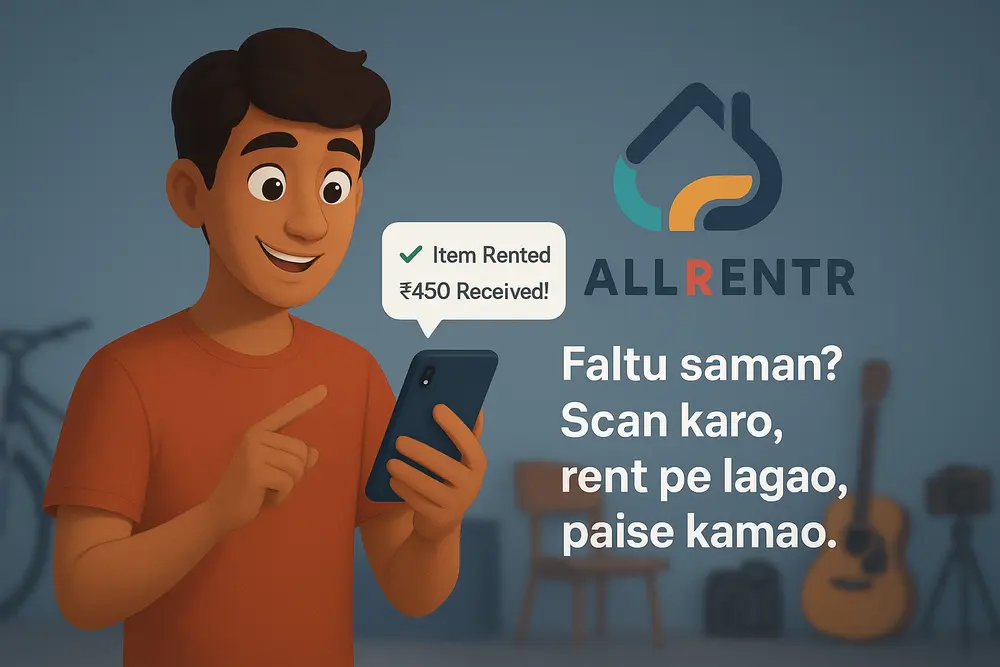
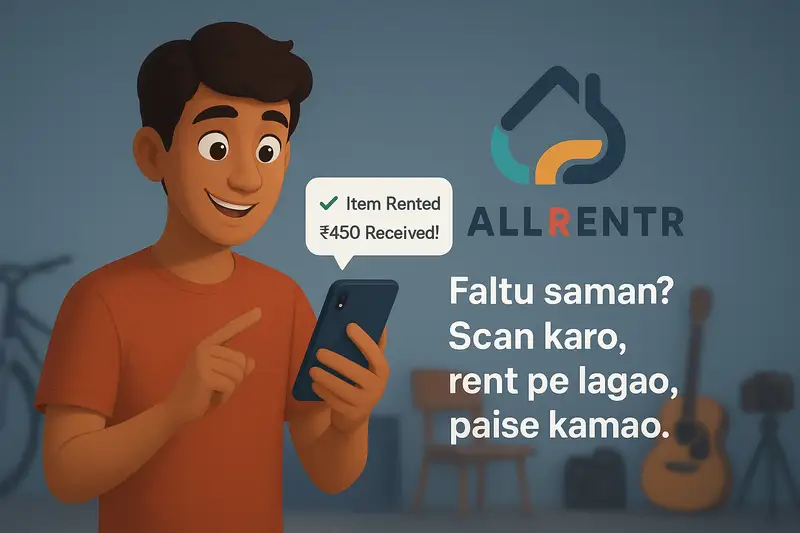
Optimize performance: Defer CSS/Ads, lazy load critical data, and improve image compression

diff --git a/src/components/TopProfilesSection.tsx b/src/components/TopProfilesSection.tsx
@@ -5,10 +5,12 @@ import { ScrollArea, ScrollBar } from "@/components/ui/scroll-area";
 import { Flame, Trophy, Crown } from "lucide-react";
 
 const TopProfilesSection = () => {
-  const { data: profiles, isLoading } = useTopProfiles();
-  const { data: visibility } = useSectionVisibility("top_profiles");
   const sectionRef = useRef<HTMLDivElement>(null);
   const [visible, setVisible] = useState(false);
+
+  // Defer rendering until visible to prevent early fetching
+  const { data: profiles, isLoading } = useTopProfiles({ enabled: visible });
+  const { data: visibility } = useSectionVisibility("top_profiles", { enabled: visible });
 
   // Fade-in when section enters viewport
   useEffect(() => {
@@ -39,9 +41,8 @@ const TopProfilesSection = () => {
   return (
     <section
       ref={sectionRef}
-      className={`relative overflow-hidden min-h-[120vh] py-32 transition-all duration-1000 ease-out ${
-        visible ? "opacity-100 translate-y-0" : "opacity-0 translate-y-20"
-      } bg-gradient-to-b from-[#0B090A] via-[#161A1D] to-[#0B090A]`}
+      className={`relative overflow-hidden min-h-[120vh] py-32 transition-all duration-1000 ease-out ${visible ? "opacity-100 translate-y-0" : "opacity-0 translate-y-20"
+        } bg-gradient-to-b from-[#0B090A] via-[#161A1D] to-[#0B090A]`}
     >
       {/* ---- Animated Background Glow ---- */}
       <div className="absolute inset-0 overflow-hidden">
@@ -70,9 +71,8 @@ const TopProfilesSection = () => {
       <div className="container mx-auto px-6 relative z-10">
         {/* ---- Header ---- */}
         <div
-          className={`text-center mb-20 transition-all duration-700 ${
-            visible ? "opacity-100 translate-y-0" : "opacity-0 translate-y-10"
-          }`}
+          className={`text-center mb-20 transition-all duration-700 ${visible ? "opacity-100 translate-y-0" : "opacity-0 translate-y-10"
+            }`}
         >
           <div className="inline-flex items-center gap-2 px-5 py-2 bg-gradient-to-r from-[#E5383B]/15 to-[#BA181B]/15 rounded-full backdrop-blur-md shadow-inner mb-5">
             <span className="text-sm tracking-widest font-semibold text-[#E5383B]">
@@ -97,11 +97,10 @@ const TopProfilesSection = () => {
             {profiles.map((profile, index) => (
               <div
                 key={profile.id}
-                className={`group flex flex-col items-center gap-5 min-w-[200px] transition-all duration-700 ${
-                  visible
-                    ? "opacity-100 translate-y-0 animate-scale-in"
-                    : "opacity-0 translate-y-10"
-                }`}
+                className={`group flex flex-col items-center gap-5 min-w-[200px] transition-all duration-700 ${visible
+                  ? "opacity-100 translate-y-0 animate-scale-in"
+                  : "opacity-0 translate-y-10"
+                  }`}
                 style={{ animationDelay: `${index * 0.1}s` }}
               >
                 <div className="relative">

diff --git a/index.html b/index.html
@@ -83,22 +83,45 @@
         gtag('js', new Date());
         gtag('config', 'G-RFDF45XBND');
     </script>
-    <script async src="https://pagead2.googlesyndication.com/pagead/js/adsbygoogle.js?client=ca-pub-5002603351055656"
-        crossorigin="anonymous"></script>
+    <!-- Ads Performance Optimization -->
+    <link rel="preconnect" href="https://pagead2.googlesyndication.com" />
+    <link rel="preconnect" href="https://googleads.g.doubleclick.net" />
+
+    <script>
+        // Lazy load Google Ads
+        window.addEventListener('load', () => {
+            setTimeout(() => {
+                const script = document.createElement('script');
+                script.src = "https://pagead2.googlesyndication.com/pagead/js/adsbygoogle.js?client=ca-pub-5002603351055656";
+                script.async = true;
+                script.crossOrigin = "anonymous";
+                document.head.appendChild(script);
+            }, 3000); // 3 seconds delay to prioritize LCP/TTI
+        });
+    </script>
     <!-- Critical CSS to prevent FOUC -->
     <style>
+        :root {
+            --font-inter: 'Inter', sans-serif;
+            --font-playfair: 'Playfair Display', serif;
+            --background: #0B090A;
+            --foreground: #F5F3F4;
+            --primary: #E5383B;
+        }
+
         body {
-            background-color: #0B090A;
-            color: #F5F3F4;
+            background-color: var(--background);
+            color: var(--foreground);
             margin: 0;
-            font-family: 'Inter', sans-serif;
+            font-family: var(--font-inter);
+            -webkit-font-smoothing: antialiased;
         }
 
         .skip-content {
             position: absolute;
             top: -40px;
             left: 0;
-            background: #E5383B;
+            background: var(--primary);
             color: white;
             padding: 8px;
             z-index: 100;
@@ -113,6 +136,20 @@
             display: flex;
             flex-direction: column;
             min-height: 100vh;
+        }
+
+        /* Critical Hero Styles to Prevent FOUC */
+        .hero-gradient {
+            background: linear-gradient(135deg, #660708, #A4161A, #BA181B);
+            min-height: 100vh;
+        }
+
+        .serif-heading {
+            font-family: var(--font-playfair);
+        }
+
+        h1 {
+            font-weight: 700;
         }
     </style>
 </head>

diff --git a/src/components/InfluencerPartnersSection.tsx b/src/components/InfluencerPartnersSection.tsx
@@ -1,12 +1,27 @@
+import { useState, useRef, useEffect } from "react";
 import { useInfluencerPartners } from "@/hooks/useInfluencerPartners";
 import { useSectionVisibility } from "@/hooks/useTopProfiles";
 import { Star } from "lucide-react";
 import TeamCarousel from "./TeamCarousel";
 
 const InfluencerPartnersSection = () => {
-  const { data: partners, isLoading } = useInfluencerPartners();
-  const { data: visibility } = useSectionVisibility("influencer_partners");
-  
+  const [visible, setVisible] = useState(false);
+  const sectionRef = useRef<HTMLElement>(null);
+
+  useEffect(() => {
+    const observer = new IntersectionObserver(
+      ([entry]) => setVisible(entry.isIntersecting),
+      { threshold: 0.1 }
+    );
+    if (sectionRef.current) observer.observe(sectionRef.current);
+    return () => sectionRef.current && observer.unobserve(sectionRef.current);
+  }, []);
+
+  const { data: partners, isLoading } = useInfluencerPartners({ enabled: visible });
+  // Wait, I didn't update useInfluencerPartners hook yet. I should do that first or concurrently.
+  // Assuming I will update it next.
+  const { data: visibility } = useSectionVisibility("influencer_partners", { enabled: visible });
+
   if (!visibility?.is_visible || isLoading || !partners?.length) return null;
 
   const teamMembers = partners.map(partner => ({
@@ -18,7 +33,7 @@ const InfluencerPartnersSection = () => {
     profile_url: partner.profile_url,
   }));
   return (
-    <section className="relative py-32 overflow-hidden bg-gradient-to-b from-white via-[#F5F3F4] to-white">
+    <section ref={sectionRef} className="relative py-32 overflow-hidden bg-gradient-to-b from-white via-[#F5F3F4] to-white">
       {/* Decorative Background */}
       <div className="absolute inset-0 opacity-40">
         <div className="absolute top-0 left-1/4 w-96 h-96 bg-[#E5383B]/20 rounded-full blur-[120px] animate-pulse-slow" />

diff --git a/scripts/optimize-images.js b/scripts/optimize-images.js
@@ -29,14 +29,13 @@ async function optimizeImages() {
             let quality = 80;
 
             // Specific rules
+            // Specific rules
             if (filename.toLowerCase().includes('hero') || filename.includes('dashboard')) {
-                pipeline = pipeline.resize({ width: 1000, withoutEnlargement: true });
-                quality = 75; // Lower quality for background/hero images
+                pipeline = pipeline.resize({ width: 800, withoutEnlargement: true });
+                quality = 65; // High compression for LCP image
             } else if (filename.toLowerCase().includes('logo')) {
-                pipeline = pipeline.resize({ width: 128, withoutEnlargement: true });
-                quality = 90; // Higher quality for logos
-                // Ensure we also make a .png version for the logo if it was a png (processed as webp here, but we might want to keep original or optimization logic for png is separate)
-                // actually the script converts everything TO webp.
+                pipeline = pipeline.resize({ width: 96, withoutEnlargement: true });
+                quality = 80; // Reasonable quality for logos
             } else {
                 pipeline = pipeline.resize({ width: 1920, withoutEnlargement: true });
             }

diff --git a/scripts/defer-css.js b/scripts/defer-css.js
@@ -1,0 +1,32 @@
+
+import fs from 'fs';
+import path from 'path';
+import { fileURLToPath } from 'url';
+
+const __filename = fileURLToPath(import.meta.url);
+const __dirname = path.dirname(__filename);
+
+const distDir = path.resolve(__dirname, '../dist');
+const htmlPath = path.resolve(distDir, 'index.html');
+
+if (!fs.existsSync(htmlPath)) {
+    console.error('index.html not found in dist directory. Run build first.');
+    process.exit(1);
+}
+
+let html = fs.readFileSync(htmlPath, 'utf8');
+
+// Find the main CSS link
+// Pattern: <link rel="stylesheet" crossorigin href="/assets/index-....css">
+const cssLinkRegex = /<link rel="stylesheet"([^>]*?)href="([^"]*?\.css)"([^>]*?)>/g;
+
+html = html.replace(cssLinkRegex, (match, p1, href, p3) => {
+    console.log(`Deferring CSS: ${href}`);
+    // Convert to preload with onload handler to swap to stylesheet
+    // This makes it non-render-blocking
+    return `<link rel="preload" as="style" href="${href}"${p1}${p3} onload="this.onload=null;this.rel='stylesheet'">
+    <noscript><link rel="stylesheet" href="${href}"${p1}${p3}></noscript>`;
+});
+
+fs.writeFileSync(htmlPath, html);
+console.log('CSS deferred successfully in index.html');

diff --git a/src/hooks/useTopProfiles.ts b/src/hooks/useTopProfiles.ts
@@ -1,7 +1,7 @@
 import { useQuery } from '@tanstack/react-query';
 import { supabase } from '@/integrations/supabase/client';
 
-export const useTopProfiles = () => {
+export const useTopProfiles = (options?: { enabled?: boolean }) => {
   return useQuery({
     queryKey: ['top-profiles'],
     queryFn: async () => {
@@ -15,10 +15,11 @@ export const useTopProfiles = () => {
       if (error) throw error;
       return data;
     },
+    enabled: options?.enabled ?? true,
   });
 };
 
-export const useSectionVisibility = (sectionName: string) => {
+export const useSectionVisibility = (sectionName: string, options?: { enabled?: boolean }) => {
   return useQuery({
     queryKey: ['section-visibility', sectionName],
     queryFn: async () => {
@@ -31,5 +32,6 @@ export const useSectionVisibility = (sectionName: string) => {
       if (error) throw error;
       return data;
     },
+    enabled: options?.enabled ?? true,
   });
 };

diff --git a/src/hooks/useInfluencerPartners.ts b/src/hooks/useInfluencerPartners.ts
@@ -1,7 +1,7 @@
 import { useQuery } from '@tanstack/react-query';
 import { supabase } from '@/integrations/supabase/client';
 
-export const useInfluencerPartners = () => {
+export const useInfluencerPartners = (options?: { enabled?: boolean }) => {
   return useQuery({
     queryKey: ['influencer-partners'],
     queryFn: async () => {
@@ -14,5 +14,6 @@ export const useInfluencerPartners = () => {
       if (error) throw error;
       return data;
     },
+    enabled: options?.enabled ?? true,
   });
 };
